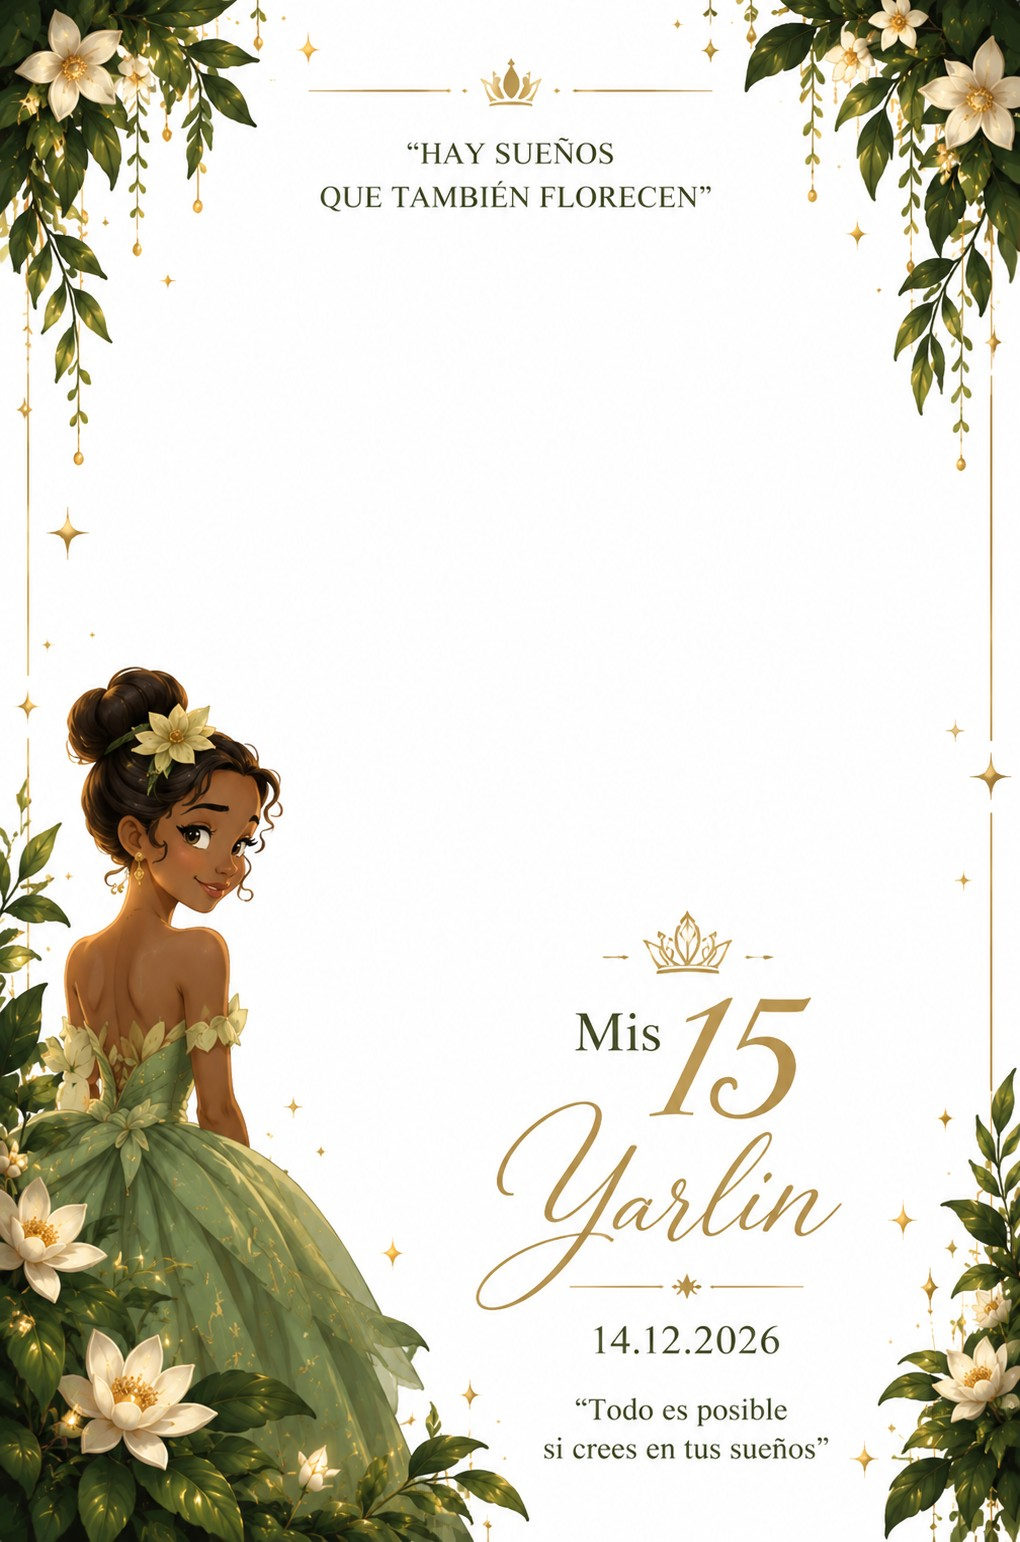
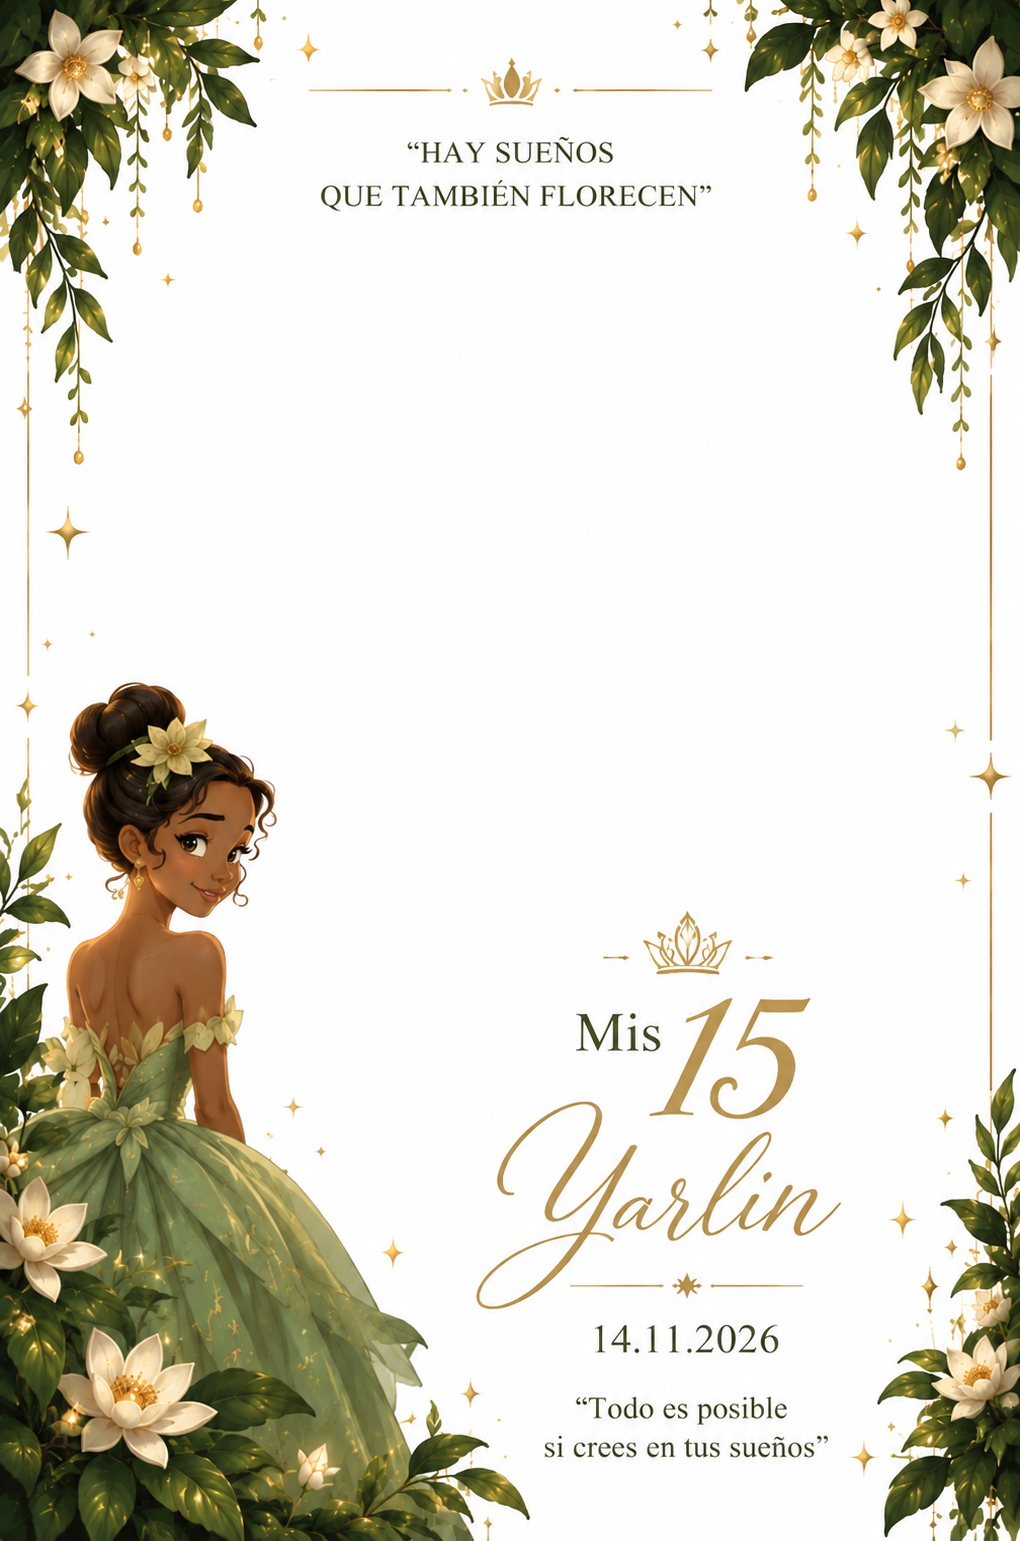
Add files via upload

diff --git a/index.html b/index.html
@@ -68,12 +68,12 @@
                     <h3 class="event-title">Celebración</h3>
                     <div class="event-details">
                         <h4>Día</h4>
-                        <p>Sábado 14 de Noviembre - 20hs</p>
+                        <p>Sábado 14 de Noviembre - 5:00pm</p>
                     </div>
                     <div class="event-details">
                         <h4>Lugar</h4>
                         <p>Villa Molina</p>
-                        <p class="event-address">Pedro Brand, República Dominicana</p>
+                        <p class="event-address">Pedro Brand</p>
                     </div>
                     <button class="btn-wedding" onclick="openLocation('celebration')">¿Cómo llegar?</button>
                 </div>
@@ -126,7 +126,7 @@
                     </div>
                     <div class="party-card">
                         <div class="party-icon bowtie-icon"><svg width="55" height="55" viewBox="0 0 64 64" fill="none"><path d="M4 24 L24 32 L4 40 Z" fill="#d6b35a"/><rect x="28" y="26" width="8" height="12" rx="2" fill="#f0d78a"/><path d="M60 24 L40 32 L60 40 Z" fill="#d6b35a"/><circle cx="32" cy="32" r="3" fill="#d6b35a"/></svg></div>
-                        <h3>Dress Code</h3>
+                        <h3>Código de Vestimenta</h3>
                         <p>Una orientación para tu vestuario</p>
                         <button class="btn-wedding" onclick="showDressCode()">Ver más</button>
                     </div>
@@ -162,14 +162,7 @@
                     <h2 class="section-title">Confirma tu Asistencia</h2>
                     <p class="section-subtitle">Comparte este hermoso momento conmigo</p>
                     <div class="whatsapp-icon">
-                        <svg width="52" height="52" viewBox="0 0 48 48">
-                            <rect x="6" y="3" width="30" height="42" rx="4" fill="#7248B9"/>
-                            <rect x="11" y="9" width="20" height="3" rx="1.2" fill="#fff" opacity=".92"/>
-                            <rect x="11" y="16" width="20" height="3" rx="1.2" fill="#fff" opacity=".92"/>
-                            <rect x="11" y="23" width="13" height="3" rx="1.2" fill="#fff" opacity=".92"/>
-                            <circle cx="35" cy="33" r="11" fill="#188038" stroke="#f5f0df" stroke-width="1.5"/>
-                            <path d="M30 33l3.4 3.4L40.5 29" stroke="#fff" stroke-width="2.6" fill="none" stroke-linecap="round" stroke-linejoin="round"/>
-                        </svg>
+                        <svg width="55" height="55" viewBox="0 0 24 24" fill="#25D366"><path d="M12 2C6.5 2 2 6.5 2 12c0 1.8.5 3.5 1.3 5L2 22l5.2-1.3c1.4.8 3.1 1.3 4.8 1.3 5.5 0 10-4.5 10-10S17.5 2 12 2z"/></svg>
                     </div>
                     <button class="btn-wedding" onclick="confirmAttendance()">Confirmar Asistencia</button>
                 </div>

diff --git a/JAVAB.js b/JAVAB.js
@@ -222,7 +222,7 @@ function updateMusicIcon() {
 
 // Countdown
 function initializeCountdown() {
-    const targetDate = new Date('2026-11-14T20:00:00').getTime();
+    const targetDate = new Date('2026-11-14T17:00:00').getTime();
     
     function updateCountdown() {
         const now = new Date().getTime();
@@ -407,7 +407,11 @@ function showDressCode() {
 }
 
 function showTips() {
-    showToast("Tips y Notas", "Te recomendamos llegar con anticipación para disfrutar cada momento de la celebración 🙏");
+    showInfoModal(
+        "Tips y Notas",
+        `<p>Este es un evento exclusivo para adultos. Se solicita amablemente no asistir con niños ni acompañantes no confirmados.</p>
+         <p>Agradecemos su comprensión y esperamos contar con su presencia.</p>`
+    );
 }
 
 function showGifts() {
@@ -415,8 +419,8 @@ function showGifts() {
 }
 
 function confirmAttendance() {
-    const formUrl = "https://docs.google.com/forms/d/e/1FAIpQLScyPvCaHKEQnQIyB4xulwdqBCdhXpGseGNUy3twxcIXpfLRmQ/viewform?usp=publish-editor";
-    window.open(formUrl, '_blank');
+    const whatsappUrl = "https://wa.me/18299333797?text=Hola%2C+deseo+confirmar+que+estar%C3%A9+asistiendo+a+los+XV+de+Yarlin.+Ser%C3%A1+un+placer+compartir+este+momento+tan+especial.+%E2%9C%A8&utm_source=chatgpt.com";
+    window.open(whatsappUrl, '_blank');
 }
 
 // Modal de información (ventana flotante reutilizable, ej. Dress Code)

diff --git a/CCSB.css b/CCSB.css
@@ -34,6 +34,13 @@
 .firefly{position:absolute;z-index:2;width:5px;height:5px;border-radius:50%;background:var(--gold-2);box-shadow:0 0 8px 3px rgba(240,215,138,.9),0 0 18px 8px rgba(240,215,138,.35);animation:flicker 2.8s ease-in-out infinite;pointer-events:none}
 @keyframes flicker{0%,100%{opacity:.3;transform:scale(.8)}50%{opacity:1;transform:scale(1.15)}}
 
+/* ============ ANIMACIÓN SUTIL DE ÍCONOS ============ */
+@keyframes iconFloat{0%,100%{transform:translateY(0)}50%{transform:translateY(-6px)}}
+.event-icon,.party-icon,.gift-icon,.camera-icon,.whatsapp-icon{animation:iconFloat 3.2s ease-in-out infinite}
+.party-card:nth-child(1) .party-icon{animation-delay:0s}
+.party-card:nth-child(2) .party-icon{animation-delay:.5s}
+.party-card:nth-child(3) .party-icon{animation-delay:1s}
+
 /* ============ COUNTDOWN ============ */
 .countdown-section{position:relative;overflow:hidden;width:100%;padding:3.5rem 1rem;background-image:url('assets/countdown-bg.jpg');background-size:cover;background-position:center;background-repeat:no-repeat;color:var(--cream)}
 .countdown-container{display:grid;grid-template-columns:repeat(4,1fr);max-width:620px;margin:0 auto;position:relative;z-index:2}
